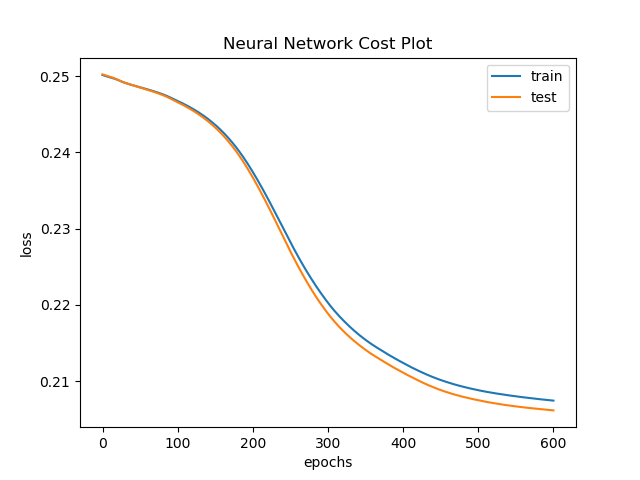
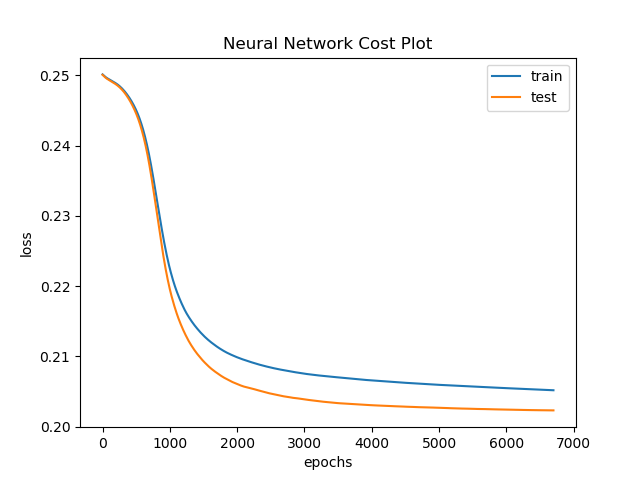
minor changes

diff --git a/config.py b/config.py
@@ -37,7 +37,7 @@ def get_args():
     argp.add_argument('--max_epoch', type=int, default=500) # optimal : mlp - 3000 /
     argp.add_argument('--output_activation', type=str, default='sigmoid', choices=['sigmoid','softmax'])
     argp.add_argument('--disable_early_stop', action='store_true', default=False)
-    argp.add_argument('--early_stop_std', type=float, default=0.00001) # optimal : mlp - 0.000001 / dnn -
+    argp.add_argument('--early_stop_std', type=float, default=0.000001) # optimal : mlp - 0.000001 / dnn -
 
     # KNN hyperparameter
     argp.add_argument('--neighbors', type=int, default=19) # optimal : 19

diff --git a/train.py b/train.py
@@ -324,7 +324,7 @@ class Train():
             test_losses.append(test_loss.item())
             agg_losses.append(train_loss.item() + test_loss.item())
 
-            if e%10 == 0 :
+            if e%500 == 0 :
                 print('epoch', str(e + 1), ' - train loss : ', str(train_loss.item()), ' / - test loss : ', str(test_loss.item()))
 
             # save best model
